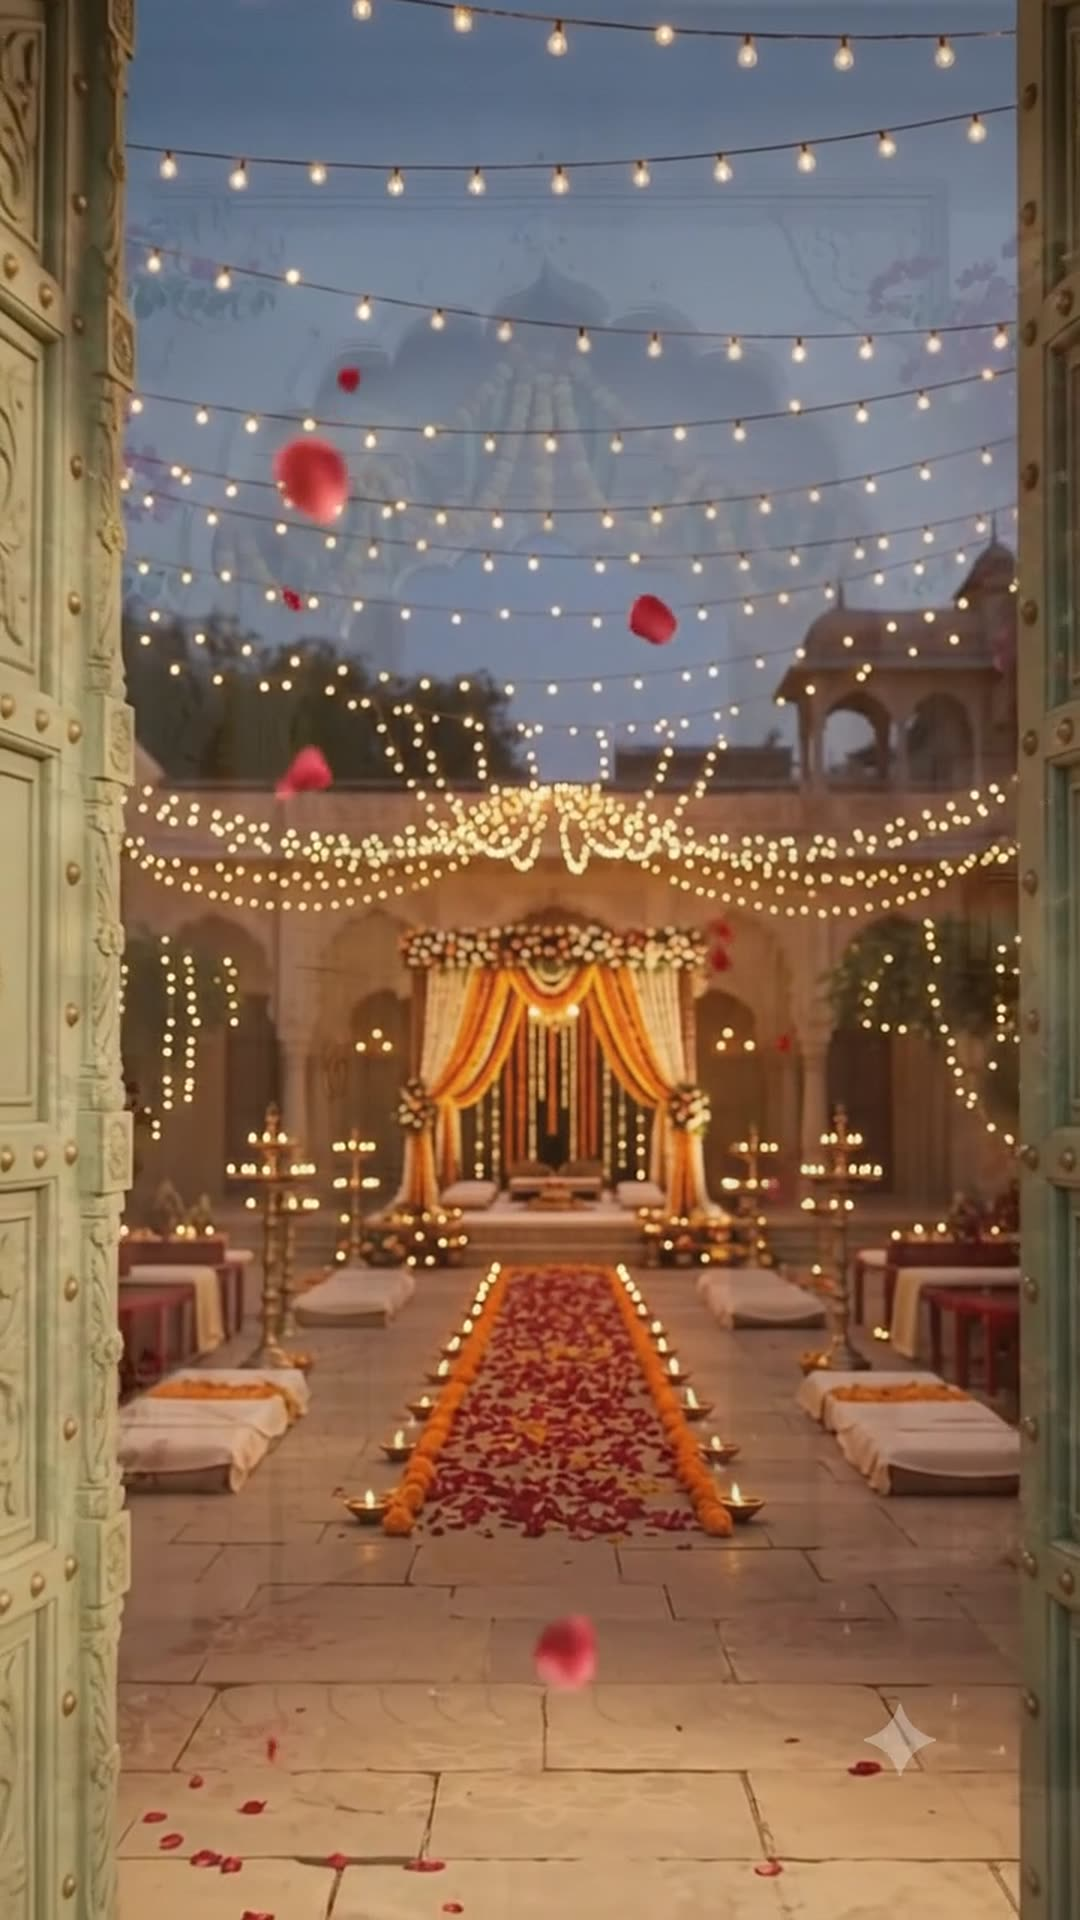
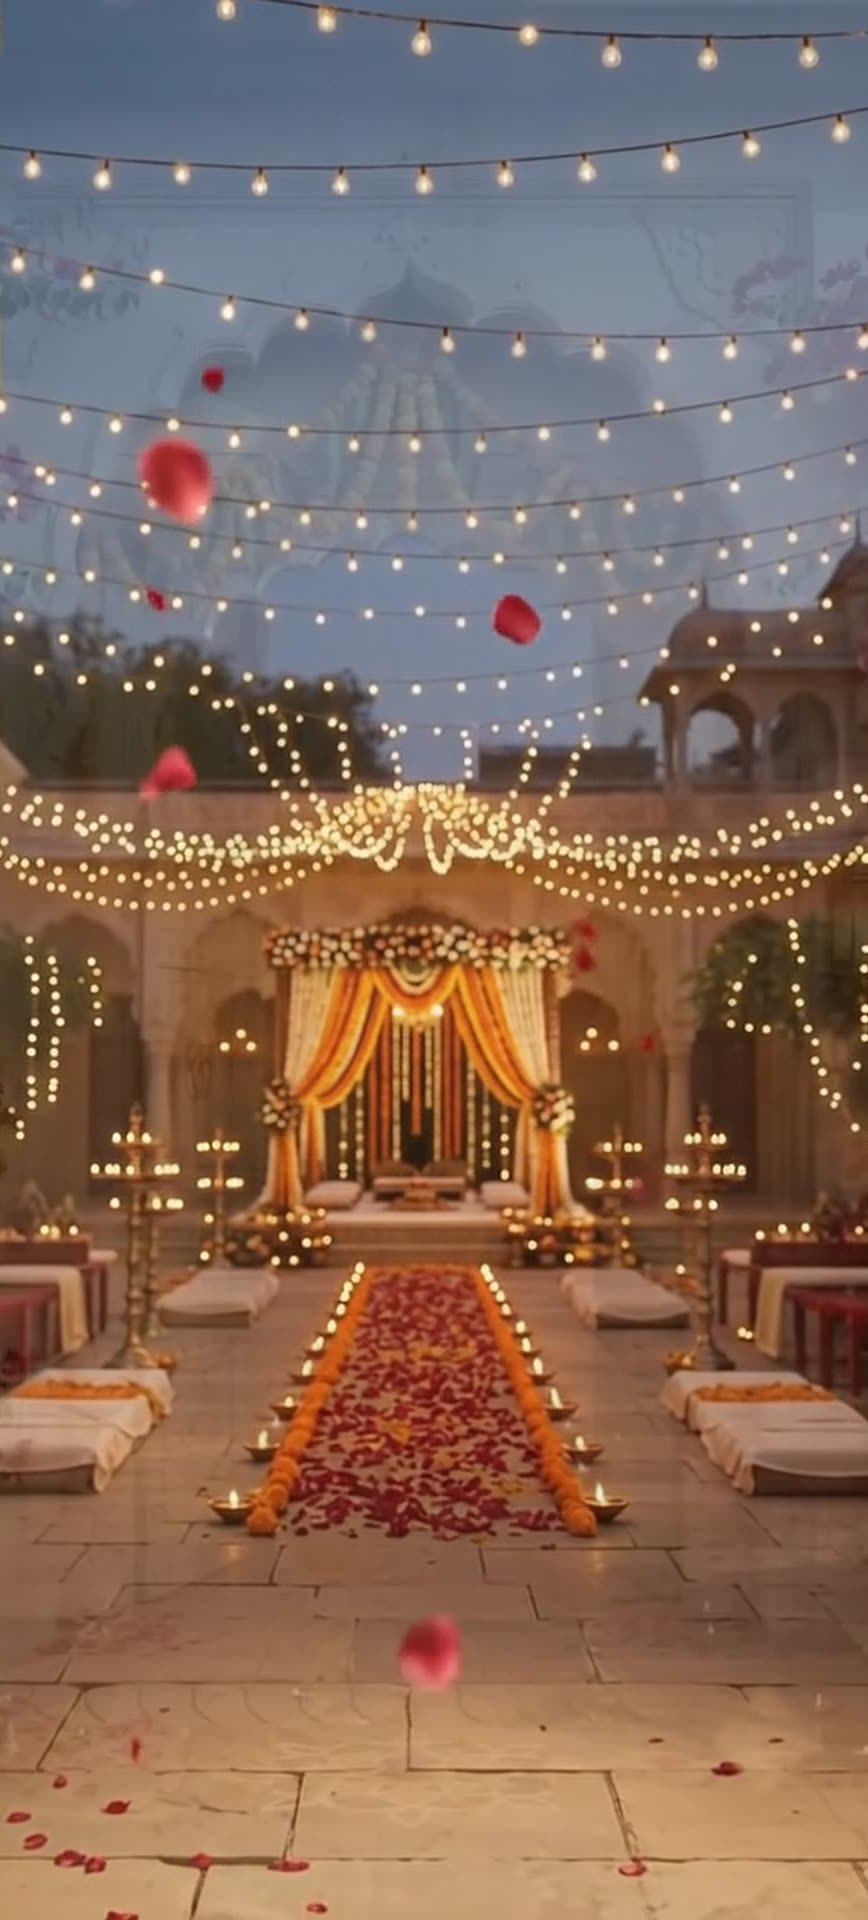
Phone hero without the door edge; haldi hands come in from the sides
- The phone-size hero photo is trimmed so the open door panels no longer
  show down the left edge, and the small watermark star on the floor is
  painted out.
- At the haldi, the family's hands now reach in from either side at his
  cheeks instead of coming down from above.
- A reach angle of 0 is now honoured (it used to fall back to 62).

Claude-Session: https://claude.ai/code/session_01AMJEvf2Cf2VHZWFHhoZb1w

diff --git a/assets/config.js b/assets/config.js
@@ -194,7 +194,7 @@ window.WEDDING = {
     coupleNamaste: 'art/couple-namaste.webp',               // the reception
     haldiBride: 'art/haldi-groom.webp', haldiHand: 'art/haldi-hand.webp', // Ashish on his chowki; the family's hands reach in with the haldi
     haldiCheeks: [[.43, .18], [.57, .18]],                  // where the turmeric lands (his cheeks), as fractions of the haldi image
-    haldiReach: 62,                                         // the angle the hands come in at (0 = from the sides, 90 = from above)
+    haldiReach: 8,                                          // the angle the hands come in at (0 = from the sides, 90 = from above): from the sides, as family sitting beside him
     mehendiHand: 'art/mehendi-groom-hand.webp', mehendiHandPlain: 'art/mehendi-groom-hand-plain.webp', // Ashish's hand, with and without mehendi
     mehendiCone: 'art/mehendi-cone.webp', mehendiConeTurn: 0, // the hand with the cone (tip at its bottom-left corner)
     mehendiHides: 'bride',                                  // the groom's side: Sapna's name hides in his mehendi

diff --git a/assets/js/scenes.js b/assets/js/scenes.js
@@ -611,7 +611,7 @@
     };
     let step = 0, phase = 0, cur = null, giggle = 0;
     // the hands come down at an angle, from relatives standing either side of her
-    const ANG = (ART.haldiReach || 62) * Math.PI / 180, REACH = 330;
+    const ANG = (ART.haldiReach ?? 62) * Math.PI / 180, REACH = 330;
     const dirOf = (who) => [Math.cos(ANG) * (who ? -1 : 1), Math.sin(ANG)];
     const restOf = (who, p) => { const d = dirOf(who); return [p.x - d[0] * REACH, p.y - d[1] * REACH]; };
     const tilt = (who) => (who ? -1 : 1) * ANG * 180 / Math.PI;
